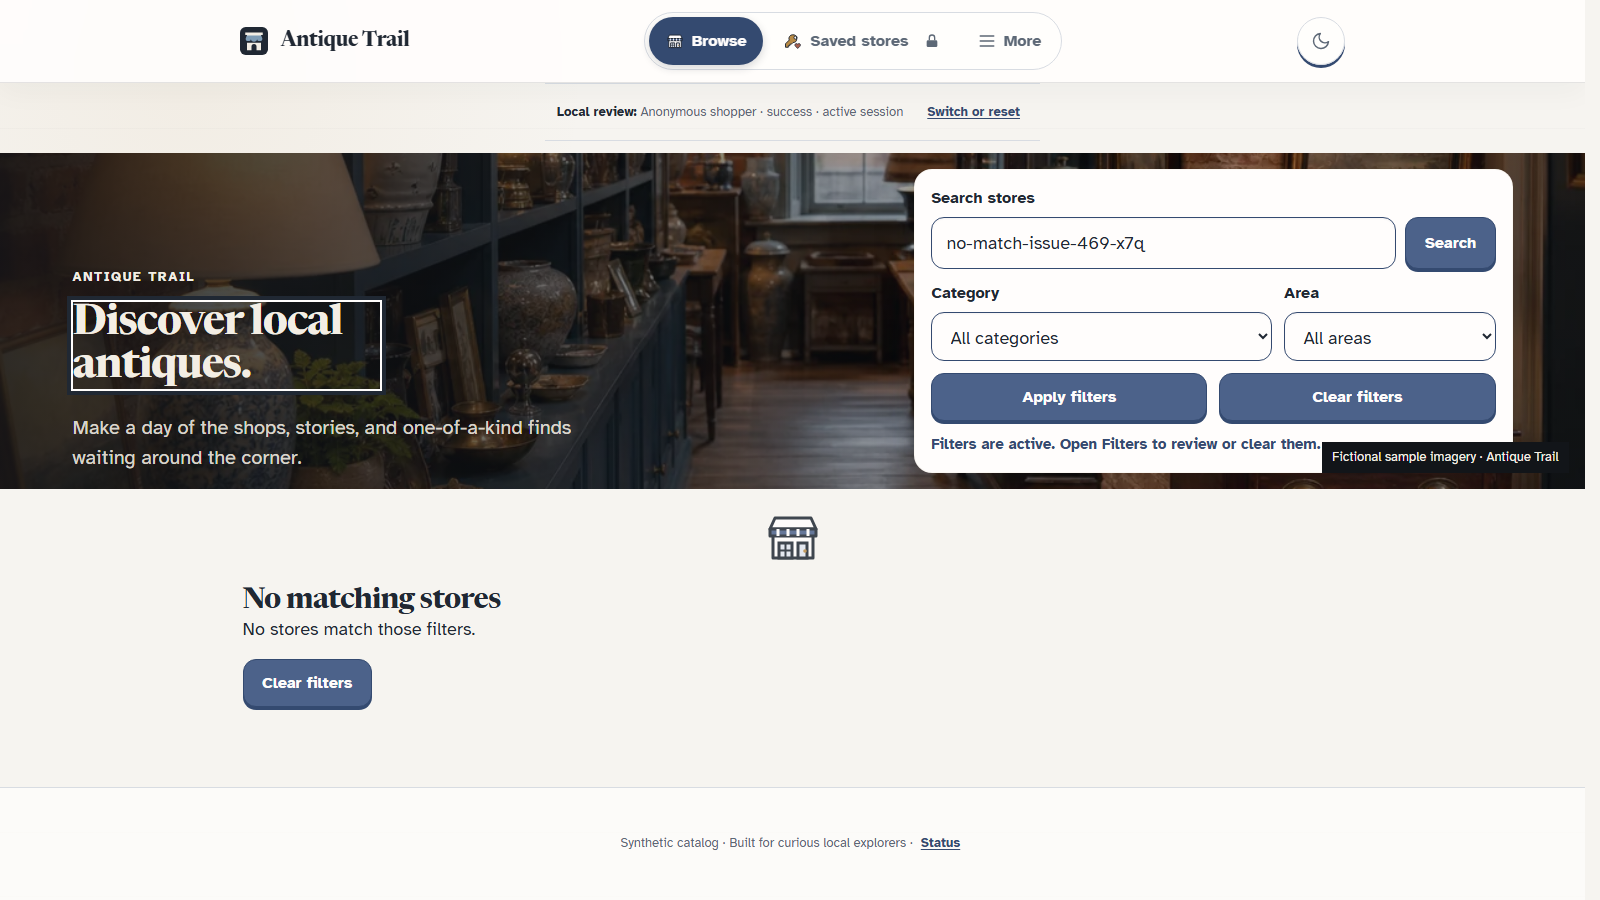
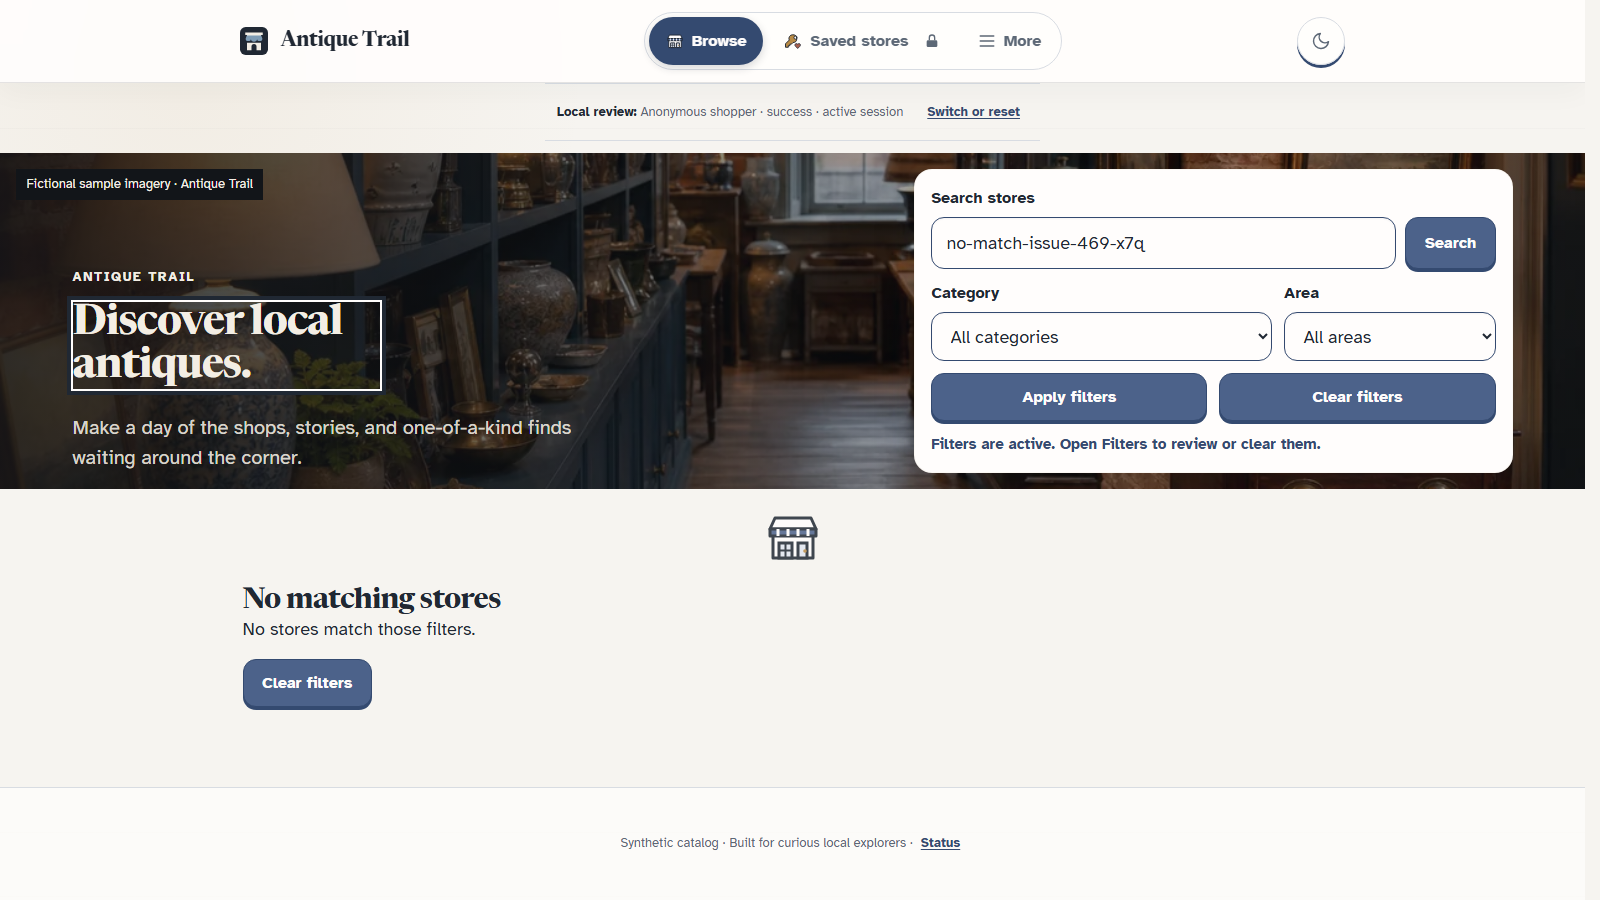
docs(evidence): refresh issue 469 viewport proof

diff --git a/docs/evidence/issue-469/acceptance.md b/docs/evidence/issue-469/acceptance.md
@@ -1,77 +1,90 @@
 # Issue 469 acceptance
 
-## Candidate and scope
+## Candidate
 
-- Issue: https://github.com/samarquis/AntiqueTrail/issues/469.
-- Branch: `codex/issue-469-browse-results-viewport`.
+- Issue/spec: https://github.com/samarquis/AntiqueTrail/issues/469.
+- Owner/chat: issue #469 ticket owner; primary Codex task.
+- Risk: standard; synthetic catalog data and presentation behavior only.
 - Admission baseline: `c9bb80250d5087ace3638059da09cd628bc1fad6`.
-- Implementation candidate: `f987aa22f4e4416555ecdd326170bc073fbfa6c0`.
-- Evidence package adds this record and screenshots only; application source remains at the implementation candidate above.
-- Risk: standard, synthetic catalog data and presentation behavior only.
-- Owned seams: Browse editorial hero, its directly related layout rules, and the direct test.
-- Excluded: card density, catalog data, and search/filter semantics.
-- Shared lane checked: #469 precedes #470, then #467; no overlapping owner or branch found.
-- No provider, database, deployment, or production changes.
+- Current PR base: `5391bd027b4f3df3a3fde85e02c284345d8fe1aa`.
+- Source candidate SHA: `17c14caa24097a314b7c983cf07c14c2a9d5ec9a`.
+- Reviewed source HEAD: `17c14caa24097a314b7c983cf07c14c2a9d5ec9a`; the pushed PR head also carries the following docs-only evidence update.
+- Diff fingerprint: `d79035879a8624f1f336007fb541ac08f23d0117` for the three application source files against the current PR base.
+- Branch: `codex/issue-469-browse-results-viewport` in its isolated ticket worktree.
+- Evidence captured at: 2026-10-02 12:34 CDT, local Windows Chromium and Vite review harness.
 
-## Acceptance answer key
+## Scope
 
-| Criterion | Observable evidence | Result |
-| --- | --- | --- |
-| Search result visibility | At 1276x720 and 1600x900, count is at y=539–570 and first result card begins at y=591. The first card enters both initial viewports. Its title starts at y=979, below both viewport heights; card density is excluded by the issue. | Pass |
-| No-match recovery | At both desktop sizes, “No matching stores” heading is at y=585–616 and Clear filters is at y=659–707. Both are visible without scrolling through the hero. | Pass |
-| Filter feedback and URL behavior | Active feedback is a `role=status` inside the search form and its white control surface. Enter search yields `/stores?q=Blue+Finch` and one result; Clear filters returns to `/stores` and 12 results. The compact results layout remains after clearing. | Pass |
-| Keyboard and labels | Search input and button have accessible names. Keyboard activation expands Filters and reveals Category. | Pass |
-| 320px reflow | At 320x740, document width is 305px and viewport client width is 320px; no horizontal page scrolling or browser errors. | Pass |
+After a search, the Browse hero enters compact results mode, moves imagery attribution clear of filter feedback, and hides editorial copy at stacked widths. Results heading identifies the first store with a direct link, so visitors can identify and open it while the catalog card image and density stay unchanged. Active feedback remains inside the search form.
+
+Excluded: card density or image-size changes, catalog data changes, search/filter semantics, database/provider work, deployment, and production publication.
+
+The admission order remains #469 → #470 → #467. Refreshed `origin/main` is `5391bd0`; the intervening #477 and #478 commits touch review surfaces only and do not overlap this ticket's source files.
+
+The earlier full-suite run on source candidate `f987aa2` reported 1,079 passed, 9 failed, and 1 skipped across 165 files. Eight failures were 5-second timeouts; one unrelated PasswordReplacement assertion failed. Those nine cases passed when rerun serially across the five unrelated suites. The full suite was not rerun on source candidate `17c14caa`.
+
+## Acceptance
+
+| Criterion                        | Observable pass condition                                                                  | Verification method                                 | Result/evidence                                                                                                                                                                                                                    |
+| -------------------------------- | ------------------------------------------------------------------------------------------ | --------------------------------------------------- | ---------------------------------------------------------------------------------------------------------------------------------------------------------------------------------------------------------------------------------- |
+| Search result visibility         | At 1276×720 and 1600×900, count and first listing identity appear in the initial viewport. | Chromium browser geometry and screenshots.          | Pass: count y=539–570; linked “First result: Blue Finch Curios” y=574–622. Card begins at y=643. Its own title remains below the viewport at y=1031; card density is unchanged.                                                    |
+| No-match recovery                | Count/state and recovery action appear without scrolling past the hero.                    | Chromium browser geometry and screenshots.          | Pass at both desktop sizes: heading y=585–616; Clear filters y=659–707. At stacked widths 1024 and 768, recovery is also visible at y=798–846 and y=604–652.                                                                       |
+| Filter feedback and URL behavior | Feedback stays attached to a stable control surface; search and clear retain URL behavior. | Chromium form/URL flow.                             | Pass: status remains inside the search form, attribution does not overlap it, Enter yields `/stores?q=Blue+Finch`, Clear returns to `/stores` with 12 stores, and compact results mode remains active.                             |
+| Accessibility and keyboard       | Controls remain labeled and keyboard operable.                                             | Chromium accessible-role queries and keyboard flow. | Pass for labeled search, Search button, first-result link, and keyboard Filters toggle. Dark theme, forced-colors, reduced-motion, and text-spacing override smoke checks showed no horizontal overflow or caption/status overlap. |
+| 320px reflow                     | Layout has no horizontal page scrolling.                                                   | Chromium document/client width comparison.          | Pass: document width 305px; client width 320px.                                                                                                                                                                                    |
 
 ### Rendered evidence
 
-Local Vite review-harness screenshots include its synthetic “Local review” status banner. Browser console and page errors were empty.
+Screenshots use the local review harness, which adds a synthetic “Local review” status banner. Browser console and page errors were empty.
 
-| View | Before | After |
-| --- | --- | --- |
-| Search, 1276x720 | ![Before search at 1276x720](before-search-1276x720.png) | ![After search at 1276x720](search-1276x720.png) |
-| Empty, 1276x720 | ![Before empty state at 1276x720](before-empty-1276x720.png) | ![After empty state at 1276x720](empty-1276x720.png) |
-| Search, 1600x900 | — | ![After search at 1600x900](search-1600x900.png) |
-| Empty, 1600x900 | — | ![After empty state at 1600x900](empty-1600x900.png) |
-| Search and empty, 320x740 | — | [Search](search-320x740.png) · [Empty state](empty-320x740.png) |
+| View                       | Before                                                   | After                                                             |
+| -------------------------- | -------------------------------------------------------- | ----------------------------------------------------------------- |
+| Search, 1276×720           | ![Before search at 1276×720](before-search-1276x720.png) | ![After search at 1276×720](search-1276x720.png)                  |
+| Empty, 1276×720            | ![Before empty at 1276×720](before-empty-1276x720.png)   | ![After empty at 1276×720](empty-1276x720.png)                    |
+| Search, 1600×900           | —                                                        | ![After search at 1600×900](search-1600x900.png)                  |
+| Empty, 1600×900            | —                                                        | ![After empty at 1600×900](empty-1600x900.png)                    |
+| Search and empty, 1024×900 | —                                                        | [Search](search-1024x900.png) · [Empty state](empty-1024x900.png) |
+| Search and empty, 768×900  | —                                                        | [Search](search-768x900.png) · [Empty state](empty-768x900.png)   |
+| Search and empty, 320×740  | —                                                        | [Search](search-320x740.png) · [Empty state](empty-320x740.png)   |
 
 ## Verification
 
-| Layer | Command or flow | Result | Applies to |
-| --- | --- | --- | --- |
-| Focused tests | `npx vitest run --maxWorkers=1 src/features/catalog/liveEditorial.test.tsx src/features/catalog/countLabels.test.tsx` | 7 passed | Candidate source SHA, local Windows checkout |
-| Typecheck | `npm run typecheck` | Passed | Candidate source SHA |
-| Lint | `npm run lint` | Passed, 0 errors and 16 warnings; none in changed files | Candidate source SHA |
-| Format | `npm run format` | Passed | Candidate source SHA |
-| Release tests | `npm run test:release` | 164 passed | Candidate source SHA |
-| Build and media | `npm run build`; `node scripts/verify-seed-media.mjs --built-root dist` | Build passed; 10 paths verified, 0 errors | Candidate source SHA, local |
-| Full unit suite | `npm run test` | 1,079 passed, 9 failed, 1 skipped across 165 files. Eight were 5-second timeouts; one password-replacement assertion failed. The nine selected cases passed when rerun serially (`--maxWorkers=1`) across the five unrelated suites. | Candidate source SHA, local Windows checkout |
-| Desktop/mobile UI | Search, no-match, clear, keyboard filter toggle at 1276x720, 1600x900, and 320x740 | Acceptance table and screenshots above; no console/page errors | Candidate source SHA, local Vite review harness |
-| Layout detector | `npx impeccable detect --json --scope layout src/features/catalog/components.tsx src/app/styles.css` | No findings (`[]`) | Candidate source SHA |
-| Hosted/provider lifecycle | Not in issue scope | Not run | Unverified |
-| Canonical production route | Deployment is separate and not authorized for this ticket | Not run | Unverified |
+| Layer                       | Command or flow                                                                                                                          | Result                                                                                                                                                                                                                               | Applies to SHA/environment                                  |
+| --------------------------- | ---------------------------------------------------------------------------------------------------------------------------------------- | ------------------------------------------------------------------------------------------------------------------------------------------------------------------------------------------------------------------------------------ | ----------------------------------------------------------- |
+| Focused tests               | `npx vitest run --maxWorkers=1 src/features/catalog/liveEditorial.test.tsx src/features/catalog/countLabels.test.tsx`                    | 8 passed. The first-result test failed before implementation, then passed with the new linked identity.                                                                                                                              | Source candidate `17c14caa`, local Windows checkout.        |
+| Typecheck                   | `npm run typecheck`                                                                                                                      | Passed.                                                                                                                                                                                                                              | Source candidate `17c14caa`.                                |
+| Lint                        | `npm run lint`                                                                                                                           | 0 errors; 16 existing warnings, none in changed files.                                                                                                                                                                               | Source candidate `17c14caa`.                                |
+| Format                      | `npm run format`                                                                                                                         | Passed.                                                                                                                                                                                                                              | Source candidate `17c14caa`.                                |
+| Release tests               | `npm run test:release`                                                                                                                   | 164 passed.                                                                                                                                                                                                                          | Source candidate `17c14caa`.                                |
+| Build and media             | `npm run build`; `node scripts/verify-seed-media.mjs --built-root dist`                                                                  | Build passed; 10 paths verified, 0 errors.                                                                                                                                                                                           | Source candidate `17c14caa`, local.                         |
+| Layout detector             | `npx impeccable detect --json --scope layout src/features/catalog/components.tsx src/app/styles.css`                                     | No findings (`[]`).                                                                                                                                                                                                                  | Source candidate `17c14caa`.                                |
+| Desktop/mobile UI           | Search, no-match, clear, URL, keyboard Filters toggle, and caption/status overlap at 1600×900, 1276×720, 1024×900, 768×900, and 320×740. | All scripted checks passed; no horizontal overflow or console/page errors.                                                                                                                                                           | Source candidate `17c14caa`, local Chromium review harness. |
+| Accessibility scope         | Chromium checked labels, keyboard toggle, dark theme state, forced-colors and reduced-motion media states, and text-spacing overrides.   | Smoke checks passed. NVDA/VoiceOver screen readers and the current/previous Chrome, Edge, Firefox, Safari, iOS Safari, and Android browser matrix were not run; unverified. Contrast was not separately audited under forced colors. | Local Chromium only.                                        |
+| Full unit suite             | `npm run test`                                                                                                                           | Not run on source candidate `17c14caa`; prior candidate outcome is recorded above and is not presented as final-candidate proof.                                                                                                     | Unverified on final source candidate.                       |
+| Database/provider lifecycle | Not in issue scope.                                                                                                                      | Not run.                                                                                                                                                                                                                             | Unverified.                                                 |
+| Canonical production route  | Deployment is separate and not authorized for this ticket.                                                                               | Not run.                                                                                                                                                                                                                             | Unverified.                                                 |
 
 ## TDD and Project Reflection preflight
 
-- Red proof: the new status-location assertion failed before moving active-filter feedback into the search form.
-- Green proof: the focused catalog tests pass after the change.
+- Red proof: the first-result-link test failed because no linked identity existed beside the count.
+- Green proof: all 8 focused catalog tests passed after implementation.
 - Applied `L-20260927-02`: waited for the actual rendered content node before measuring layout.
 - Applied `L-20260930-01`: omitted workstation and vault paths from this shared evidence.
 - Applied `L-20260930-02`: verify the live linked-issue state after merge and close it explicitly if still open.
-- `L-20260927-01` was rejected as inapplicable: this scoped hero adjustment changes no public heading or navigation.
+- Rejected `L-20260927-01` as inapplicable: this change adds no public heading or navigation.
 
 ## Source fingerprint
 
 Reproduce from the candidate checkout:
 
 ```powershell
-git diff --binary --full-index c9bb80250d5087ace3638059da09cd628bc1fad6...HEAD -- src/app/styles.css src/features/catalog/components.tsx src/features/catalog/liveEditorial.test.tsx | git hash-object --stdin
+git diff --binary --full-index 5391bd027b4f3df3a3fde85e02c284345d8fe1aa...HEAD -- src/app/styles.css src/features/catalog/components.tsx src/features/catalog/liveEditorial.test.tsx | git hash-object --stdin
 ```
 
-Current source-only fingerprint: `7c4dce53cfd86177ff3550984d39ffd14546fb70`.
+Current source-only fingerprint: `d79035879a8624f1f336007fb541ac08f23d0117`.
 
 ## Independent review and gates
 
-- Standards/Spec verdicts, parent exact-head review, required checks, merge, resulting `main` SHA, and live issue closure are recorded on the linked PR and issue.
-
-Hosted and production evidence remain unverified because deployment is outside this ticket. Any affected source, configuration, fixture, or integration change invalidates the corresponding proof.
+- Updated standards and spec reviews, parent exact-PR-head review, required CI, merge, resulting `main` SHA, and live issue closure remain pending.
+- Hosted/provider lifecycle and canonical production route remain unverified because deployment is outside this ticket.
+- Any affected source, configuration, fixture, or integration change invalidates corresponding proof.
